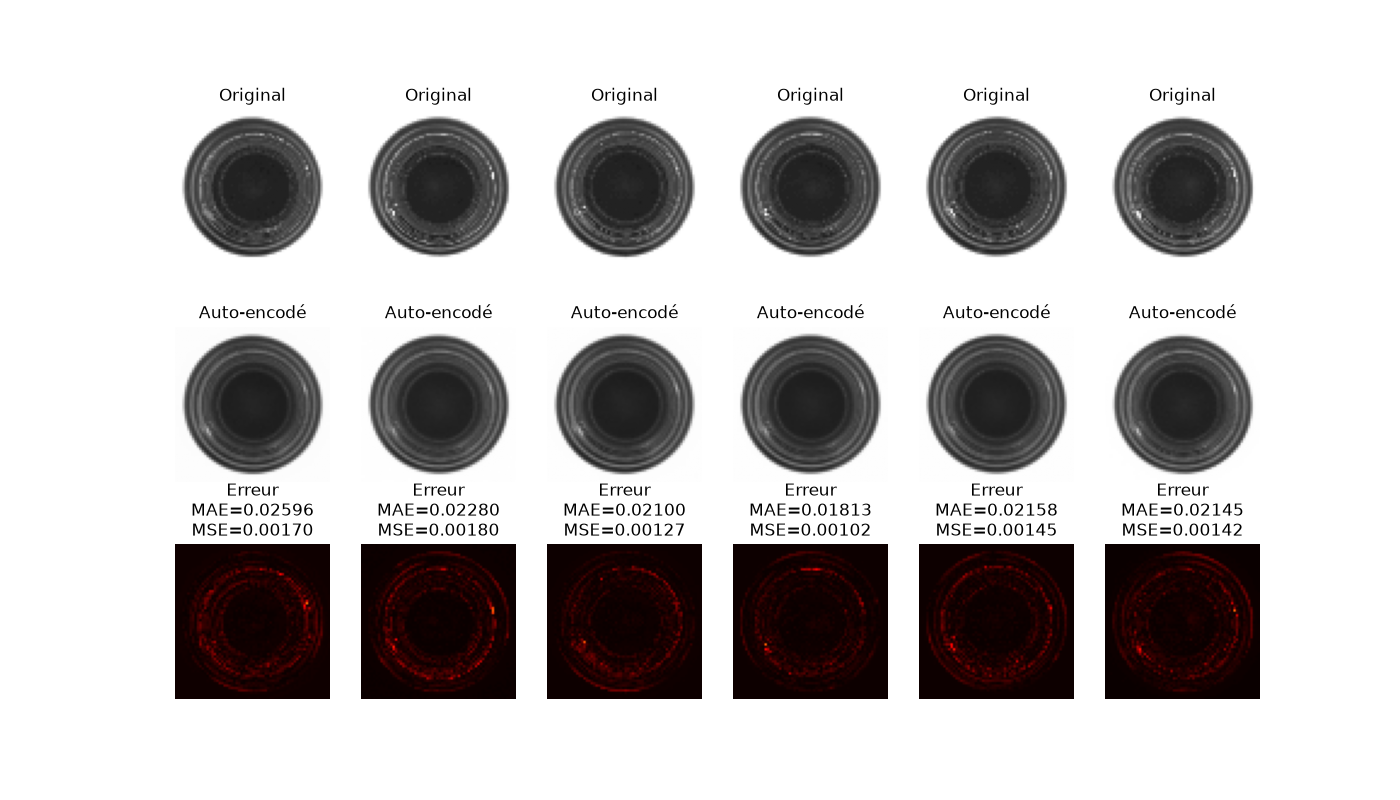
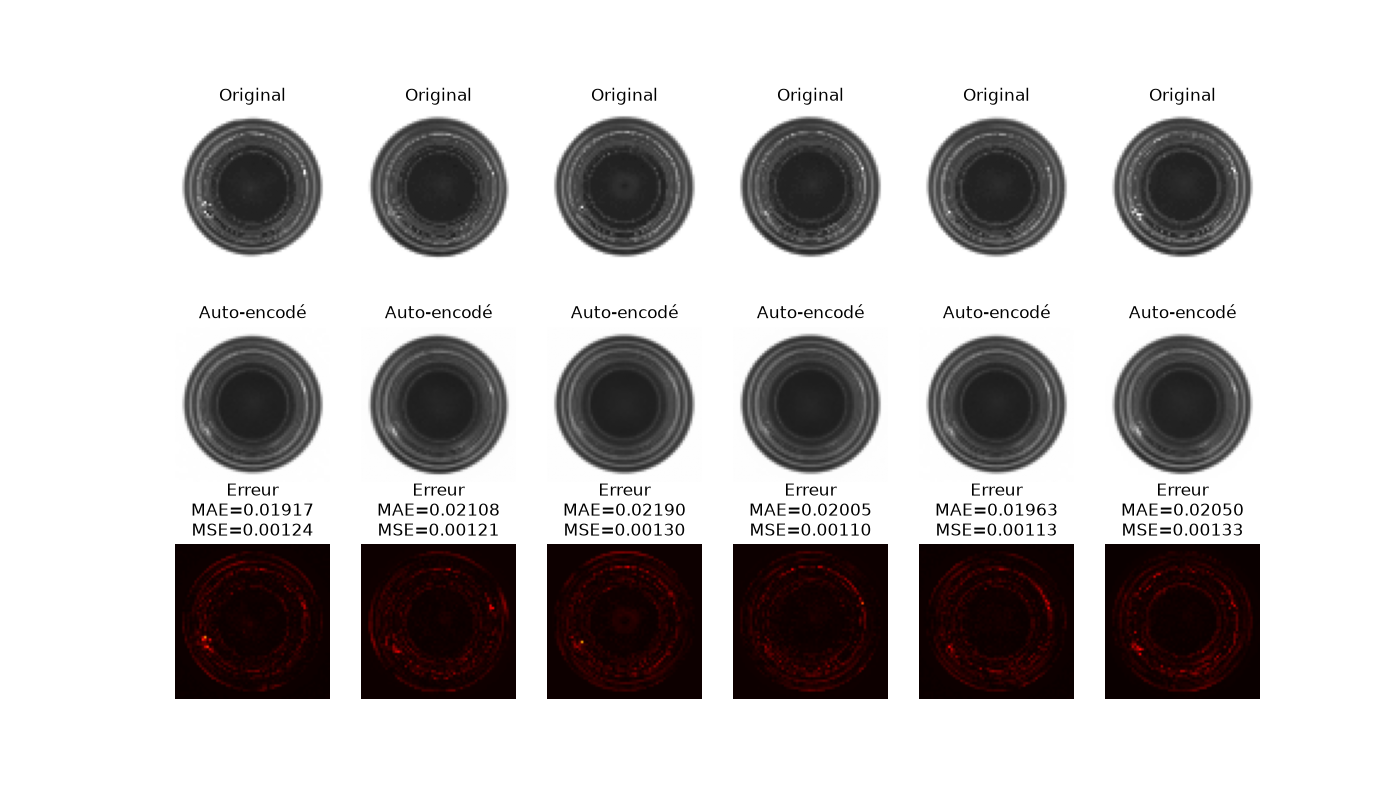
Génération de la matrice de confusion

diff --git a/1-autoencoder/autoencode.py b/1-autoencoder/autoencode.py
@@ -114,29 +114,55 @@ plt.savefig(output_path / "images_reconstruites_train_good.png")
 
 # Histogramme des erreurs sur les images d'entraînement (bonnes)
 test_pred_good = autoencoder.predict(images)
-mse_good = ((images - test_pred_good)**2).mean(axis=1)
+mse_train_good = ((images - test_pred_good)**2).mean(axis=1)
 
 plt.figure(figsize=(10,6))
-plt.hist(mse_good, bins=30, color='green', alpha=0.7, label='Train (bonnes)')
+plt.hist(mse_train_good, bins=30, color='green', alpha=0.7, label='Train (bonnes)')
 plt.xlabel('Erreur')
 plt.ylabel('Fréquence')
-plt.title('Histogramme des erreurs (train)')
-plt.legend()
+plt.title(f'Histogramme des erreurs - {category}')
+
+# Définition d'une limite pour détecter les anomalies (par exemple, le 95ème percentile des erreurs sur les images d'entraînement)
+threshold = np.percentile(mse_train_good, 95)
+plt.axvline(threshold, color='red', linestyle='dashed', linewidth=2, label=f'Seuil (95ème percentile) = {threshold:.5f}')
 
 # Histogramme des erreurs sur les images de test (anomalies)
-images_anomaly = load_liste_images(image_path, resized_dimension, category=category, type='test', quality="anomaly", include_augmented=False)
-print(f"Nombre d'images de test chargées : {len(images_anomaly)}")
+images_test_anomaly = load_liste_images(image_path, resized_dimension, category=category, type='test', quality="anomaly", include_augmented=False)
+print(f"Nombre d'images de test chargées : {len(images_test_anomaly)}")
 
-test_pred_anomaly = autoencoder.predict(images_anomaly)
-mse_anomaly = ((images_anomaly - test_pred_anomaly)**2).mean(axis=1)
+test_pred_anomaly = autoencoder.predict(images_test_anomaly)
+mse_anomaly = ((images_test_anomaly - test_pred_anomaly)**2).mean(axis=1)
 
 plt.hist(mse_anomaly, bins=30, color='orange', alpha=0.7, label='Test (anomalies)')
+plt.legend()
 plt.savefig(output_path / f"histogramme_erreurs_{category}.png")
+
+# Détection des anomalies sur les images de test
+images_test_good = load_liste_images(image_path, resized_dimension, category=category, type='test', quality="good", include_augmented=False)
+print(f"Nombre d'images de test chargées : {len(images_test_good)}")
+
+test_pred_good = autoencoder.predict(images_test_good)
+mse_test_good = ((images_test_good - test_pred_good)**2).mean(axis=1)
+
+# matrice de confusion
+from sklearn.metrics import confusion_matrix
+import seaborn as sns
+
+y_true = np.concatenate([np.zeros(len(mse_test_good)), np.ones(len(mse_anomaly))])
+y_pred = np.concatenate([mse_test_good > threshold, mse_anomaly > threshold])
+
+plt.figure(figsize=(8,6))
+cm = confusion_matrix(y_true, y_pred, normalize='true')
+sns.heatmap(cm, annot=True, fmt='.3f', cmap='Blues', xticklabels=['Good', 'Anomalies'], yticklabels=['Good', 'Anomalies'])
+plt.xlabel('Prédiction')
+plt.ylabel('Réel')
+plt.title(f'Matrice de confusion - {category}')
+plt.savefig(output_path / f"matrice_confusion_{category}.png")
 
 # ROC curve
 from sklearn.metrics import roc_curve, auc
 
-fpr, tpr, thresholds = roc_curve(np.concatenate([np.zeros(len(mse_good)), np.ones(len(mse_anomaly))]), np.concatenate([mse_good, mse_anomaly]))
+fpr, tpr, thresholds = roc_curve(np.concatenate([np.zeros(len(mse_train_good)), np.ones(len(mse_anomaly))]), np.concatenate([mse_train_good, mse_anomaly]))
 roc_auc = auc(fpr, tpr)
 
 plt.figure(figsize=(8,6))
@@ -155,12 +181,12 @@ plt.savefig(output_path / f"roc_curve.png")
 # Visualisation des images reconstruites pour les anomalies
 # Visualisation des images reconstruites
 nb_col = 6
-test_pred = autoencoder.predict(images_anomaly[:nb_col])
+test_pred = autoencoder.predict(images_test_anomaly[:nb_col])
 
 plt.figure(figsize=(14,8))
 for i in range(nb_col):
     
-    image_originale = images_anomaly[i].reshape(resized_dimension[0], resized_dimension[1])
+    image_originale = images_test_anomaly[i].reshape(resized_dimension[0], resized_dimension[1])
     image_autoencodee = test_pred[i].reshape(resized_dimension[0], resized_dimension[1])
     image_erreur = np.abs(image_originale - image_autoencodee)
     